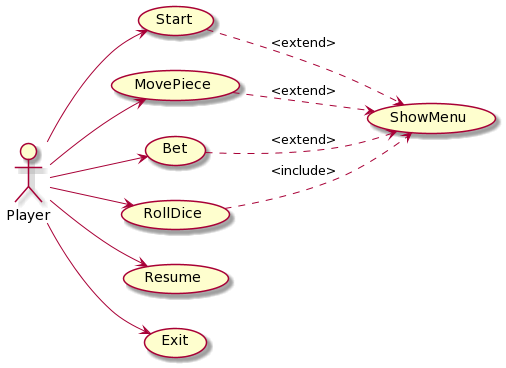
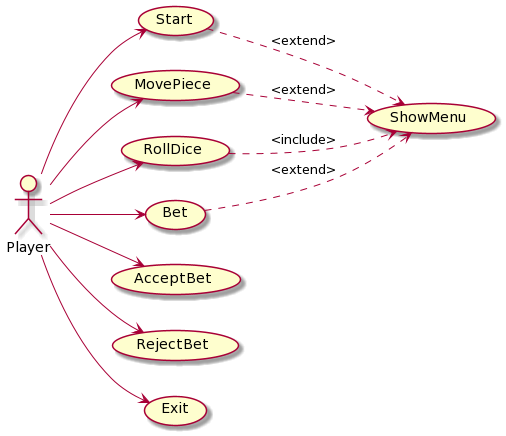
Change use cases and specifications

diff --git a/rup/README.md b/rup/README.md
@@ -54,16 +54,14 @@ otra ficha que pueda utilizar más movimiento
 ![Start](/rup/usecase/start.png)
 
 ### MovePiece
+
+RollDice is so similar to MovePiece
+
 ![MovePiece](/rup/usecase/move_piece.png)
 
-### Bet
-![Bet](/rup/usecase/bet.png)
 
-### RollDice
-![RollDice](/rup/usecase/roll_dice.png)
-
-### Resume
-![Resume](/rup/usecase/resume.png)
+### RejectBet
+![RejectBet](/rup/usecase/reject_bet.png)
 
 ### Exit
 ![Exit](/rup/usecase/exit.png)
